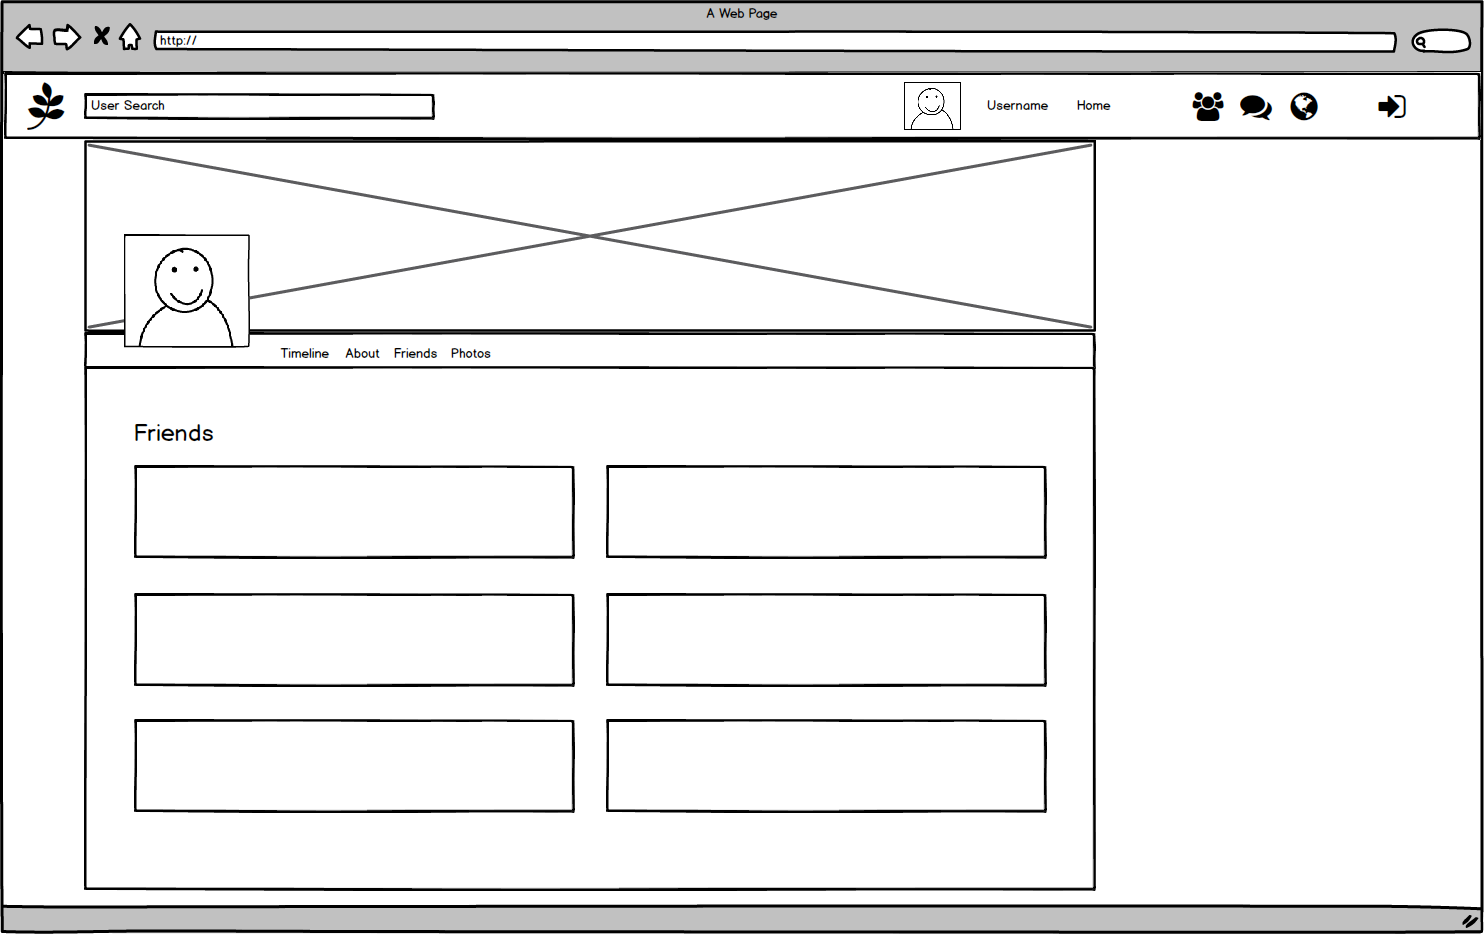
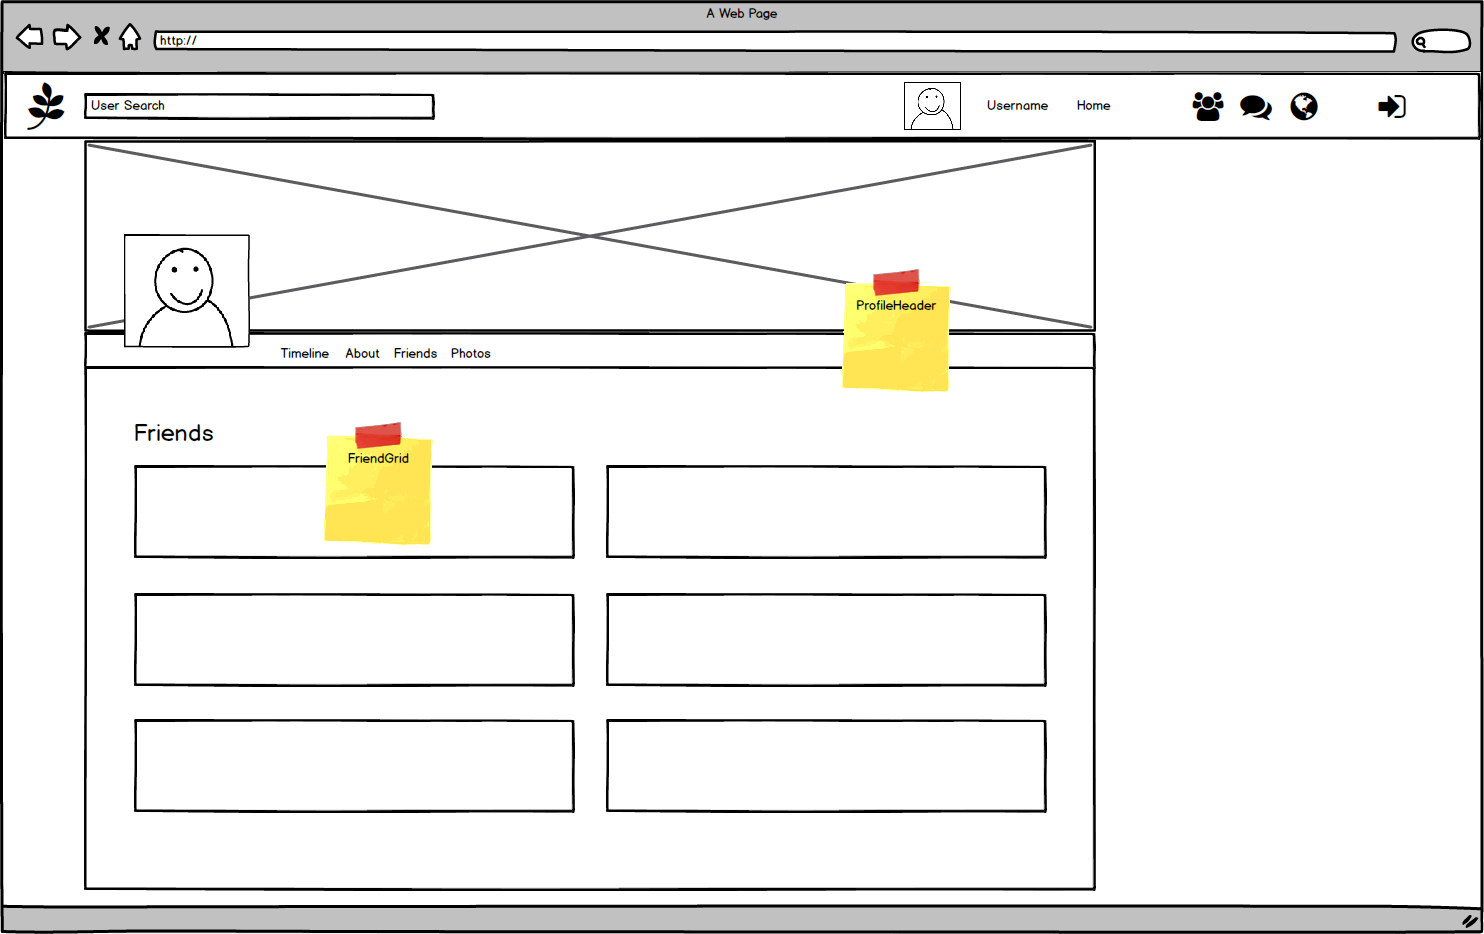
proposal: update wireframes, finish component hierarchy

Changed region(s): [[0.558, 0.2794, 0.6509, 0.4347], [0.217, 0.4347, 0.31, 0.5899]]

diff --git a/docs/component-hierarchy.md b/docs/component-hierarchy.md
@@ -1,0 +1,35 @@
+## Component Hierarchy
+
+**LoginPage**
+  - UserLogin
+  - UserCreate
+
+**ProfilePage**
+  - ProfileHeader
+  - IntroWidget
+  - PhotoWidget
+  - FriendWidget
+  - PostCreate
+  - UserWall
+
+**NewsFeed**
+  - PostCreate
+  - NewsFeedList
+
+**Friends**
+  - ProfileHeader
+  - FriendGrid
+
+**Photos**
+  - ProfileHeader
+  - PhotoGrid
+
+## Routes
+
+|Path   | Component   |
+|-------|-------------|
+| "/" | "LoginPage" |
+| "/feed" | "NewsFeed" |
+| "/:user" | "ProfilePage" |
+| "/:user/friends" | "Friends" |
+| "/:user/photos" | "Photos" |

diff --git a/docs/README.md b/docs/README.md
@@ -53,4 +53,4 @@ and sufficient CSS styling:
   * Search
   * Messaging
   * Pictures / Albums
-  * Infinite Scroll for News Feed, Timeline
+  * Infinite Scroll for News Feed, Timeline Wall
